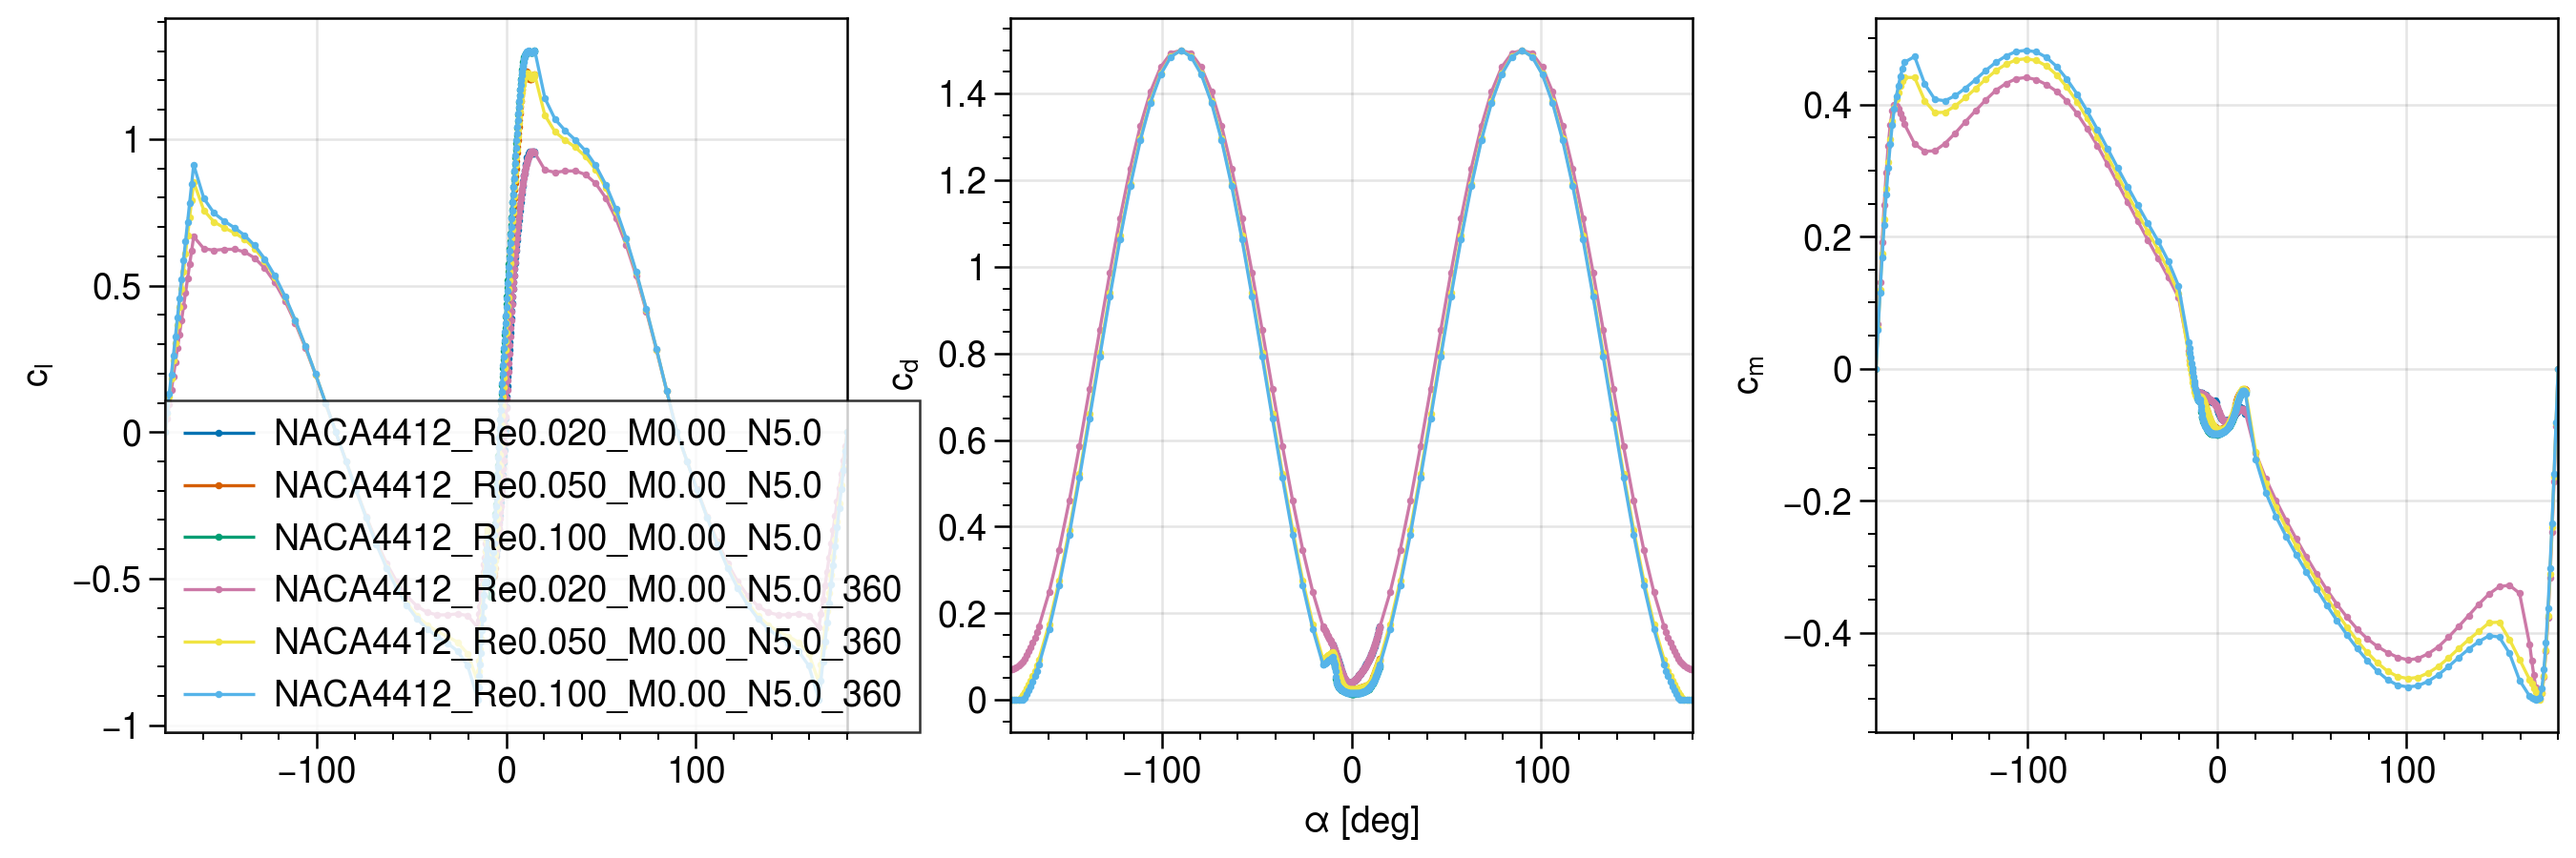
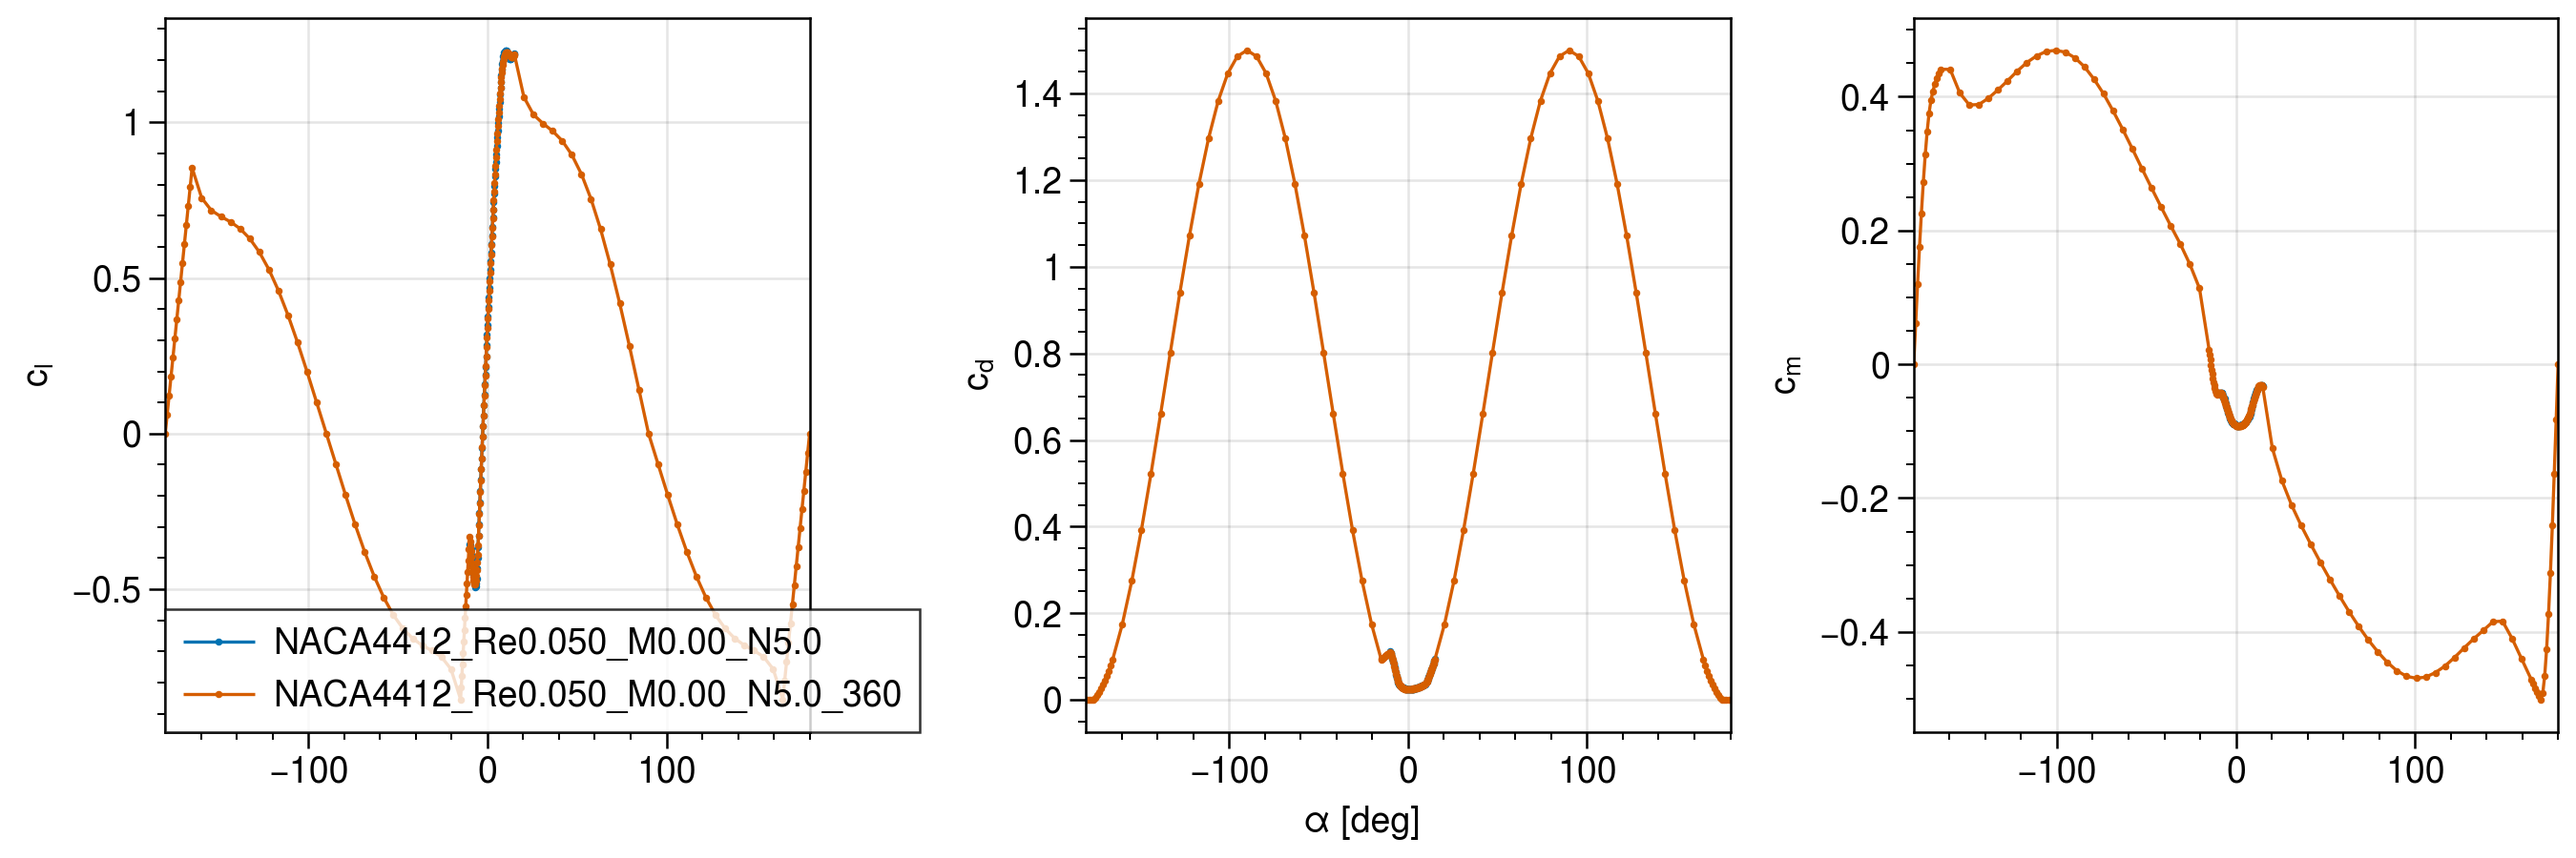
bugfix in cd 3d correction

diff --git a/compare.py b/compare.py
@@ -1,0 +1,34 @@
+# %%
+
+import airfoilprep as ap
+import pandas as pd
+from copy import copy
+import proplot as pplt
+
+df = pd.read_csv('/mnt/a/Code/10_drones/Propeller/data/polars/NACA4412/NACA4412_Re0.050_M0.00_N5.0.csv')
+cd_max = 1.5
+
+p = ap.Polar(50000, df.alpha.values, df.cl.values, df.cd.values, df.cm.values)
+
+p_ext = p.extrapolate(cd_max)
+
+fig, ax = pplt.subplots(figsize=(9,3), nrows=1, ncols=3, sharex=True, sharey=False)
+ax[0].plot(p_ext.alpha, p_ext.cl, label='Extrapolated')
+ax[0].plot(p.alpha, p.cl, label='Original')
+ax[1].plot(p_ext.alpha, p_ext.cd, label='Extrapolated')
+ax[1].plot(p.alpha, p.cd, label='Original')
+ax[2].plot(p_ext.alpha, p_ext.cm, label='Extrapolated')
+ax[2].plot(p.alpha, p.cm, label='Original')
+
+p_ext_3D = p_ext.correction3D( 0.22, 0.53, 4.24)
+
+fig, ax = pplt.subplots(figsize=(9,3), nrows=1, ncols=3, sharex=True, sharey=False)
+ax[0].plot(p_ext_3D.alpha, p_ext_3D.cl, label='3D Corrected')
+ax[0].plot(p_ext.alpha, p_ext.cl, label='Extrapolated')
+ax[1].plot(p_ext_3D.alpha, p_ext_3D.cd, label='3D Corrected')
+ax[1].plot(p_ext.alpha, p_ext.cd, label='Extrapolated')
+ax[2].plot(p_ext_3D.alpha, p_ext_3D.cm, label='3D Corrected')
+ax[2].plot(p_ext.alpha, p_ext.cm, label='Extrapolated')
+
+
+# %%
